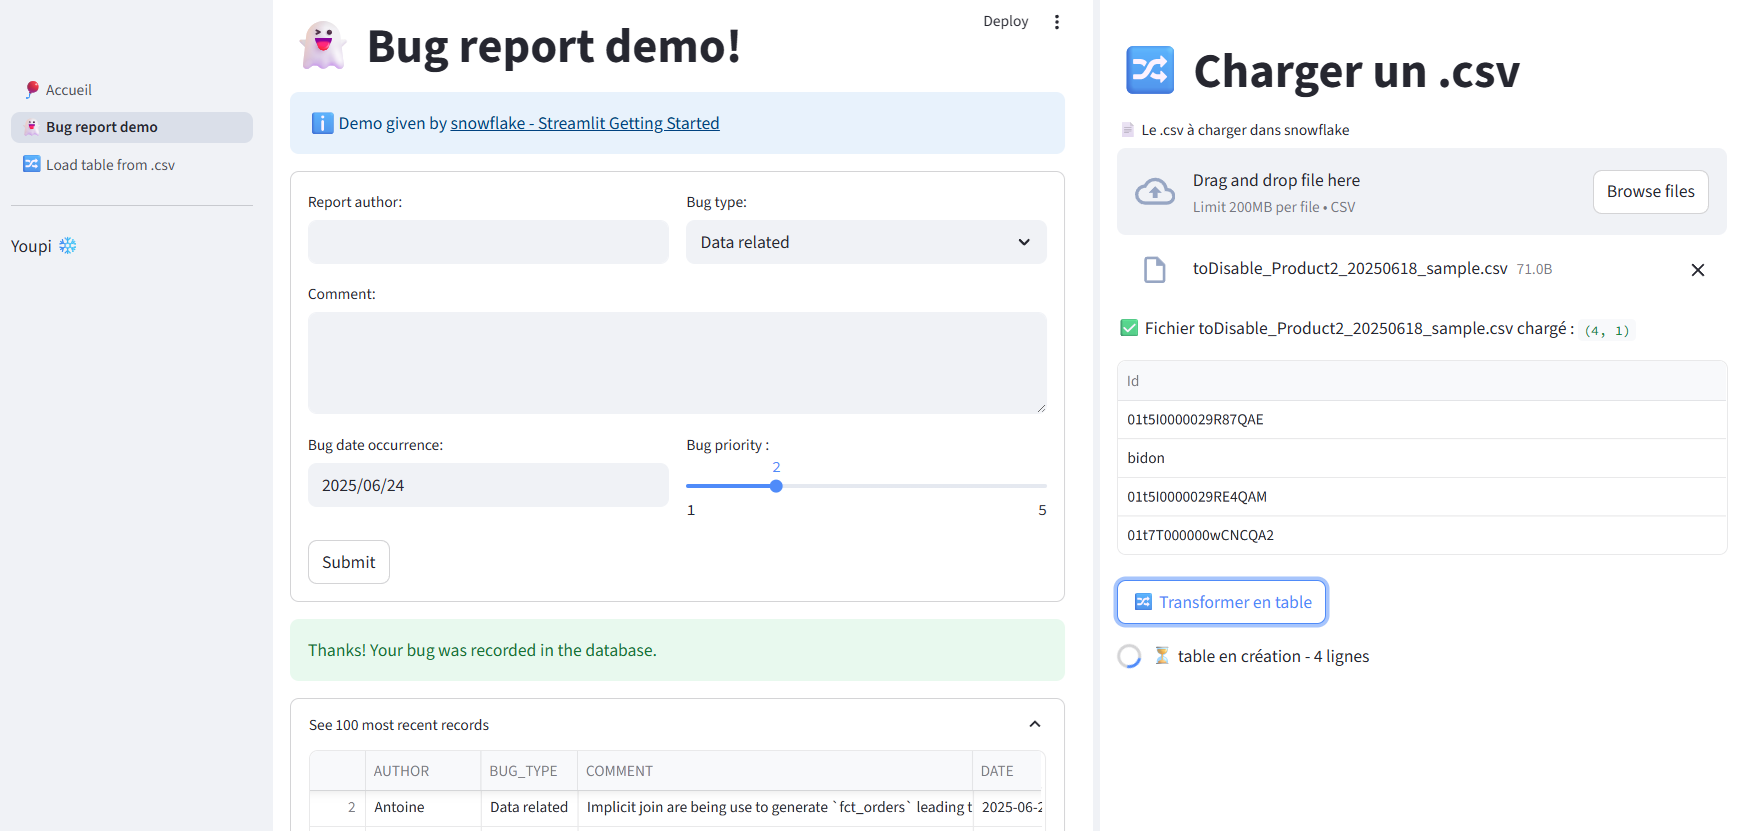
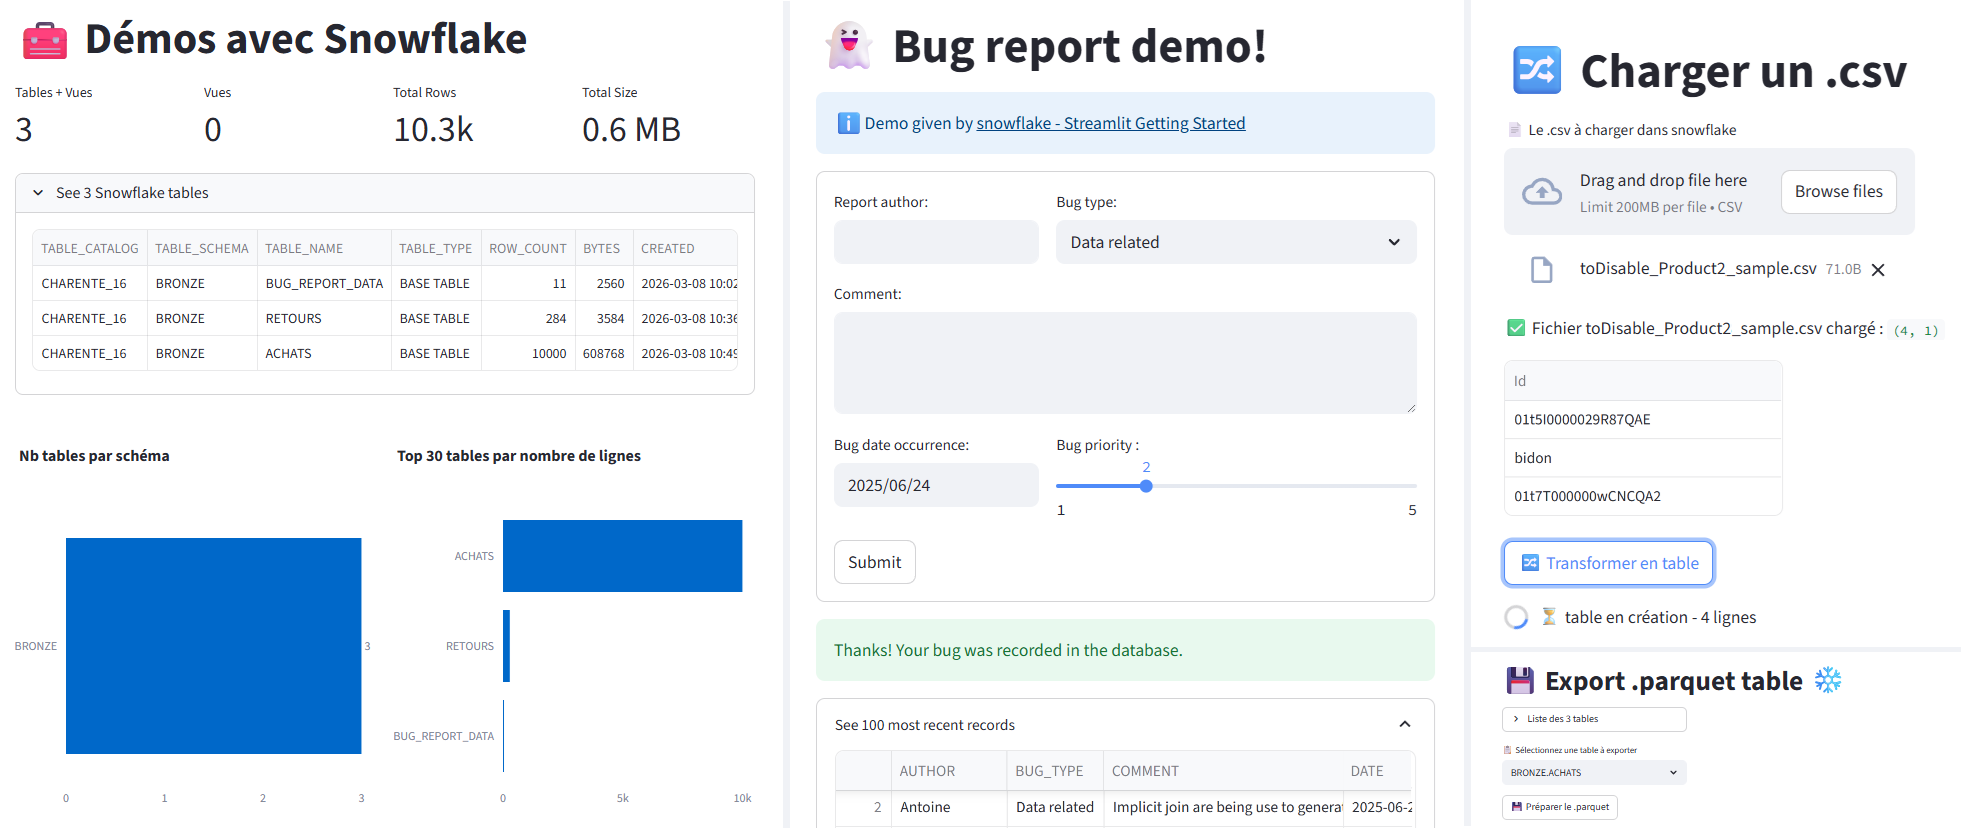
feat(dataContract): simpliste

diff --git a/pages/2_📄_Load_csv.py b/pages/2_📄_Load_csv.py
@@ -1,33 +1,71 @@
 import streamlit as st
 import polars as pl
 
-st.set_page_config(page_title="Charger un .csv", page_icon="📄")
+st.set_page_config(page_title="Charger un .csv", page_icon="📄", layout="wide")
 st.title("📄 Charger un .csv")
 
 session = st.connection("snowflake").session()
 
-# 2. Upload du fichier CSV
-uploaded_file = st.file_uploader("📄 Le .csv à charger dans snowflake", type="csv")
+cols = st.columns([1, 2])
 
-choix_separator = st.selectbox("📋 le séparateur ?", [",", ";"])
+with cols[0]:
+    # --- Contrats de données ---
+    contrats = [
+        {"ficher": "retours.csv", "colonnes": ["ID commande", "Retourné"]},
+        {"ficher": "ventes.csv", "colonnes": ["Zone géographique", "Responsable régional"]},
+    ]
 
-print(f"{uploaded_file=}")
+    st.subheader("📋 Contrats de données attendus")
+    st.dataframe(contrats)  # Affichage des contrats pour référence
 
-if uploaded_file:
-    df = pl.read_csv(uploaded_file, separator=choix_separator)
-    st.write(f"✅ Fichier {uploaded_file.name} chargé :", df.shape)
-    st.dataframe(df)
+    # --- Upload du fichier CSV ---
+    uploaded_file = st.file_uploader("📄 Le .csv à charger dans snowflake", type="csv")
+    choix_separator = st.selectbox("📋 le séparateur ?", [",", ";", "|"])
 
-    if st.button("🔀 Transformer en table"):
-        with st.spinner(f"⏳ table en création - {df.height} lignes"):
-            res = session.write_pandas(
-                df.to_pandas(),
-                uploaded_file.name.replace(".csv", "").upper(),
-                schema="BRONZE",
-                auto_create_table=True,
-                overwrite=True,
-                use_logical_type=True,
-            )
+with cols[1]:
+    if uploaded_file:
+        df = pl.read_csv(uploaded_file, separator=choix_separator)
+        st.write(f"✅ Fichier `{uploaded_file.name}` chargé :", df.shape)
+        st.dataframe(df)
+
+        # --- Vérification du contrat ---
+        contrat = next((c for c in contrats if c["ficher"] == uploaded_file.name), None)
+        contrat_ok = False  # valeur par défaut
+
+        if contrat is None:
+            st.warning("⚠ Aucun contrat trouvé pour ce fichier. Impossible de valider le schéma.")
+        else:
+            colonnes_attendues = set(contrat["colonnes"])
+            colonnes_fichier = set(df.columns)
+
+            colonnes_manquantes = colonnes_attendues - colonnes_fichier
+            colonnes_en_trop = colonnes_fichier - colonnes_attendues
+
+            if not colonnes_manquantes and not colonnes_en_trop:
+                st.success("🟢 Le fichier respecte parfaitement le contrat de données.")
+                contrat_ok = True
+            else:
+                st.error("🔴 Le fichier ne respecte PAS le contrat de données.")
+                if colonnes_manquantes:
+                    st.error(f"Colonnes manquantes : {list(colonnes_manquantes)}")
+                if colonnes_en_trop:
+                    st.error(f"Colonnes en trop : {list(colonnes_en_trop)}")
+
+        # --- Bouton d'upload ---
+        if st.button("🔀 Charger dans snowflake"):
+            # if not contrat_ok:
+            #     st.error("❌ Impossible de transformer : le contrat n'est pas respecté.")
+            #     st.stop()
+
+            with st.spinner(f"⏳ table en création - {df.height} lignes"):
+                res = session.write_pandas(
+                    df.to_pandas(),
+                    uploaded_file.name.replace(".csv", "").upper(),
+                    schema="BRONZE",
+                    auto_create_table=True,
+                    overwrite=True,
+                    use_logical_type=True,
+                )
 
             # df.write_database(
             #     table_name="bikeshare.bronze.demo_csv_upload",
@@ -35,8 +73,9 @@ if uploaded_file:
             #     engine="adbc",
             # )
 
-        if res.table_name:
-            st.success("✅ Actualisation terminée")
-            st.dataframe(res.collect())
-        else:
-            st.error("Oups qqch a planté")
+            if res.table_name:
+                st.success("✅ Fichier chargé avec succès dans Snowflake !")
+                st.balloons()
+                st.dataframe(res.collect())
+            else:
+                st.error("Oups qqch a planté")
